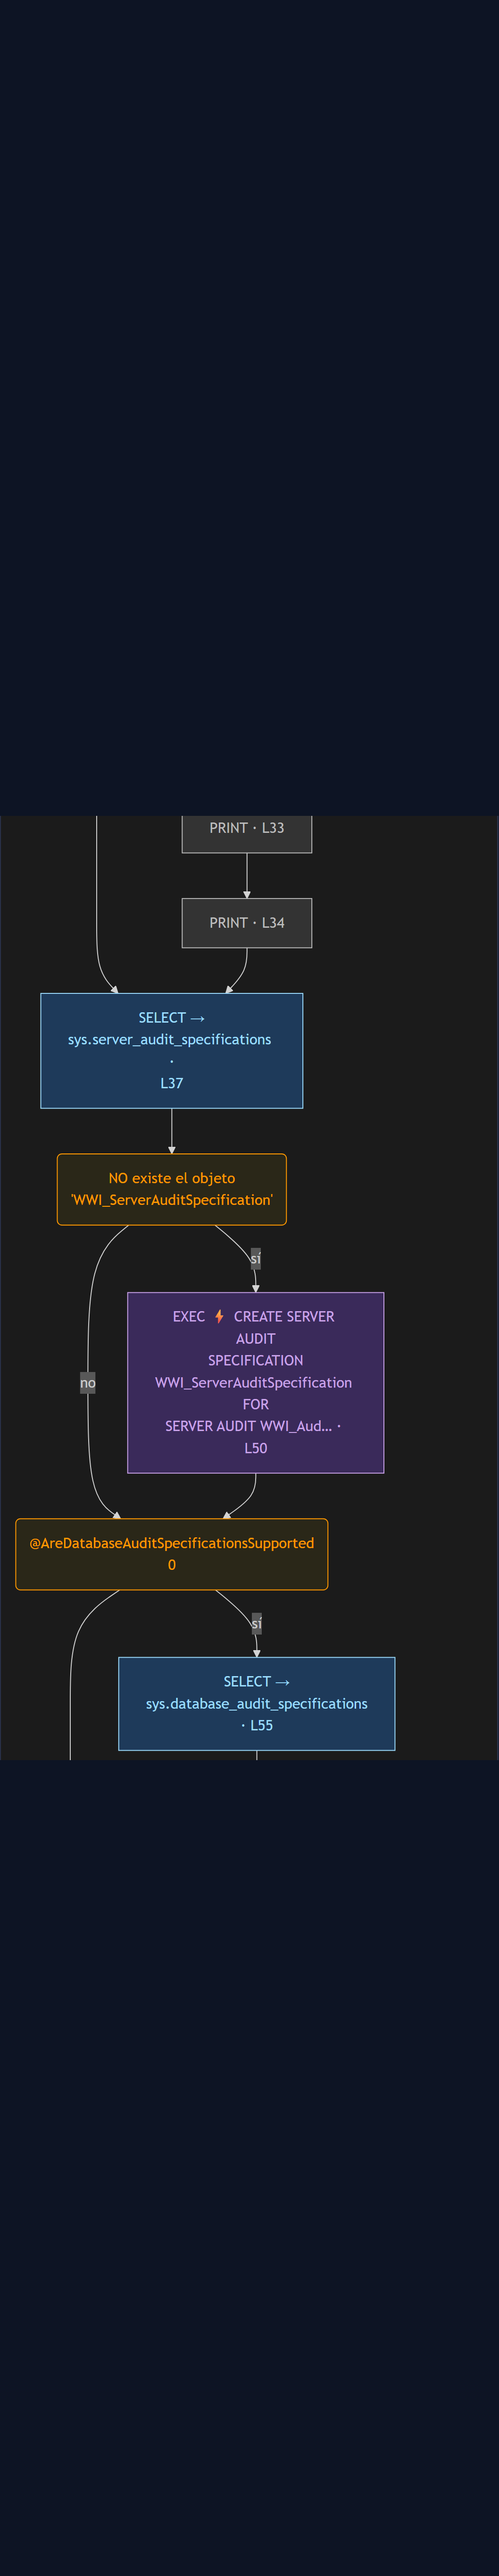
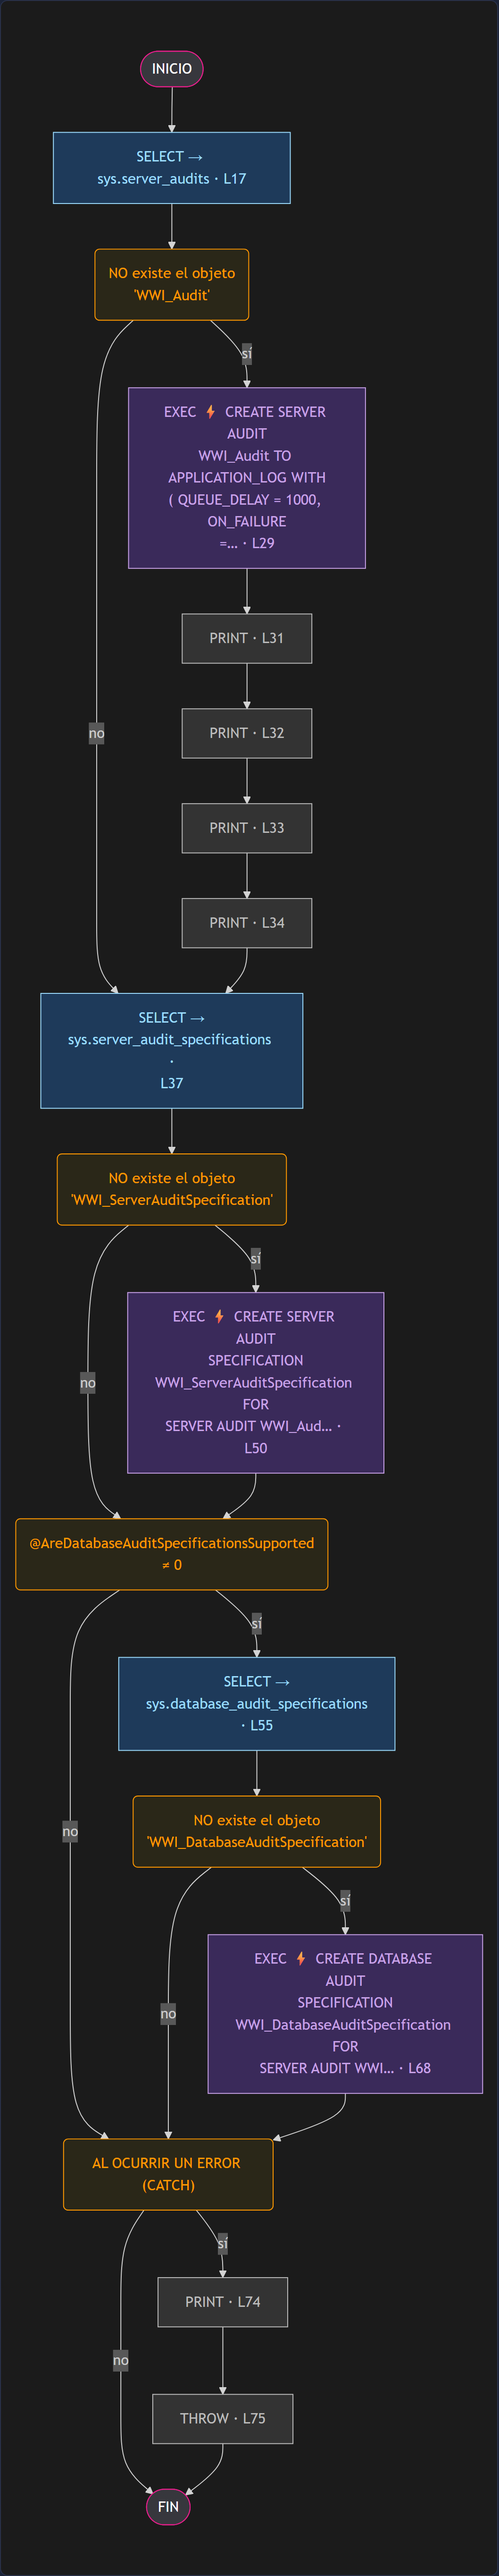
fix: capturas de diagrama en blanco y operadores de comparacion perdidos
El saneador de labels de Mermaid (mmSanitize) borraba <, >, <=, >= y <>
enteros para no romper la sintaxis del diagrama, comiendose tambien los
operadores de condiciones T-SQL reales (una condicion como "@var <> 0"
quedaba como "@var  0", sin operador). Ahora se traducen primero a su
simbolo Unicode (!=, <=, >=, <, >) antes del resto del saneado.

Ademas, el screenshot de un diagrama de flujo mas alto que el viewport
salia con huecos en blanco: Chromium solo pinta la porcion actualmente
visible de un elemento cuando se captura via elementHandle.screenshot(),
y el layout de la app scrollea un panel interno (no window/body), asi
que un window.scrollTo(0,0) no bastaba. shotDiagram ahora reinicia el
scrollTop de cada ancestro scrolleable y agranda el viewport para
contener el elemento entero antes de capturar.

README: se quita la tabla de precios vs. Purview/Octopai/Informatica
-sonaba a venta de humo comparando una herramienta de analisis estatico
con plataformas de gobierno de datos que no compiten en la misma liga-
y se deja una frase factual sobre el hueco real que llena (SQL dinamico
y reglas de negocio que el catalogo y el grep no ven).

diff --git a/dashboard/e2e/shots-diagrams.js b/dashboard/e2e/shots-diagrams.js
@@ -31,9 +31,38 @@ async function shotDiagram(page, headingText, out) {
   }, headingText);
   const el = handle.asElement();
   if (!el) { console.log('✗ no diagram for', headingText); return false; }
-  await el.scrollIntoViewIfNeeded();
-  await page.waitForTimeout(300);
+
+  // The layout scrolls internally (the content pane, not window/body/html),
+  // so `window.scrollTo` never touches the container that actually matters.
+  // Reset every scrollable ancestor's scrollTop to 0 directly.
+  const resetScroll = () => el.evaluate((node) => {
+    let e = node.parentElement;
+    while (e) {
+      if (e.scrollHeight > e.clientHeight + 2) e.scrollTop = 0;
+      e = e.parentElement;
+    }
+  });
+  await resetScroll();
+  await page.waitForTimeout(200);
+
+  // Chromium's element screenshot goes blank outside the current viewport for
+  // elements taller than it (e.g. a long flowchart with 15+ ranks): only the
+  // scrolled-into-view slice gets painted, the rest comes out empty. Grow the
+  // viewport to fully contain the element before capturing, then restore it —
+  // no scrolling/tiling needed, so the whole element gets painted. Must reset
+  // scroll again afterward: resizing a taller viewport can itself trigger the
+  // content pane to re-scroll to keep the previous focus point in view.
+  const box = await el.boundingBox();
+  const original = page.viewportSize();
+  const needsResize = box && (box.y + box.height + 50) > original.height;
+  if (needsResize) {
+    await page.setViewportSize({ width: original.width, height: Math.ceil(box.y + box.height + 50) });
+    await page.waitForTimeout(200);
+    await resetScroll();
+    await page.waitForTimeout(300);
+  }
   await el.screenshot({ path: out });
+  if (needsResize) await page.setViewportSize(original);
   console.log('✓', path.basename(out));
   return true;
 }

diff --git a/dashboard/src/components.js b/dashboard/src/components.js
@@ -142,9 +142,16 @@
   }
 
   // Mermaid: limpia caracteres que rompen el parser dentro de `"label"` (comillas,
-  // pipes, brackets/llaves/ángulos, saltos de línea).
+  // pipes, brackets/llaves/ángulos, saltos de línea). Los operadores de
+  // comparación T-SQL (`<>`, `<=`, `>=`, `<`, `>`) se traducen primero a su
+  // símbolo Unicode: si no, el strip de ángulos se los come enteros y una
+  // condición real como `@Var <> 0` queda como "@Var  0", indistinguible de un
+  // valor sin comparar.
   function mmSanitize(s) {
-    return (s || '').replace(/[\r\n]+/g, ' ').replace(/["|{}\[\]<>]/g, '').trim();
+    return (s || '')
+      .replace(/<>/g, '≠').replace(/<=/g, '≤').replace(/>=/g, '≥')
+      .replace(/</g, '˂').replace(/>/g, '˃')
+      .replace(/[\r\n]+/g, ' ').replace(/["|{}\[\]]/g, '').trim();
   }
   function mmEsc(s) { return (s || '').replace(/"/g, "'"); }
   // Envuelve el texto en varias líneas (<br>) para que las cajas no crezcan a

diff --git a/README.md b/README.md
@@ -44,9 +44,7 @@ La cadena de impacto se despliega **por niveles**, aguas arriba y aguas abajo, h
 
 Cada procedimiento se traduce a su **flujograma real** desde el AST — con sus **decisiones**, no un resumen. Aquí `Configuration_ApplyAuditing`: *¿existe ya `WWI_ServerAuditSpecification`?* → si no, lo crea con SQL dinámico (`EXEC ⚡`); *¿el servidor soporta especificaciones de auditoría?* → ramifica. Cada `IF` con sus ramas **sí/no** en lenguaje natural y la línea exacta. La lógica de negocio, con sus condiciones, legible sin abrir el `CREATE PROCEDURE`.
 
-## Comparación — qué hueco llena
-
-**vs. herramientas open source / gratuitas:**
+## Qué hueco llena
 
 | Herramienta | AST real | SQL dinámico | Lineage columna | Riesgos | Offline / agent-ready |
 | --- | :---: | :---: | :---: | :---: | :---: |
@@ -57,18 +55,7 @@ Cada procedimiento se traduce a su **flujograma real** desde el AST — con sus 
 | Apache Atlas | catálogo | ❌ | ❌ | ❌ | genérico |
 | dbt lineage | solo modelos dbt | ❌ | limitado | ❌ | ❌ |
 
-**vs. herramientas comerciales:**
-
-| Herramienta | Precio | AST T-SQL | SQL dinámico | Offline | Open source |
-| --- | :---: | :---: | :---: | :---: | :---: |
-| **Este toolkit** | **Gratis** | ✅ | ✅ | ✅ | ✅ |
-| Microsoft Purview | €€€ · Azure-only | ❌ catálogo | ❌ | ❌ | ❌ |
-| Octopai | €€€€ enterprise | ❌ | ❌ | ❌ | ❌ |
-| Informatica IDMC | €€€€€ enterprise | ❌ | ❌ | ❌ | ❌ |
-
-### El hueco que complementa
-
-Las gratuitas paran en el análisis de texto o de catálogo: **ninguna usa la gramática `ScriptDom` ni resuelve el `EXEC(@sql)` dinámico**, que es exactamente donde vive el riesgo. Las de pago sí razonan sobre metadatos, pero cuestan una fortuna, viven en cloud y **tampoco entran en el SQL dinámico ni dan lineage a columna con reglas de negocio**. Este toolkit ocupa el hueco intermedio: la profundidad de gramática de una comercial, gratis, offline y diffable — pensado para **complementar** tu SSMS, tu catálogo y tu CI, no para sustituirlos.
+El catálogo (`sys.sql_expression_dependencies`, Atlas, Purview) ve lo que está declarado en `sys.objects` y nada más: un trigger creado en runtime o una tabla que solo aparece dentro de un `EXEC(@sql)` no existen para él. Un grep o un regex (sqllineage) no distingue un `IF` real de un `IF` dentro de un string que se está construyendo. Este toolkit entiende el AST completo del procedimiento —lo que hace, no solo lo que declara— y por eso ve el SQL dinámico, las reglas de negocio en cada `WHERE` y el riesgo de seguridad en cada `@SQL` construido desde datos de tabla. Es lo que hace falta para responder con certeza "¿qué rompo?", no para sustituir tu catálogo ni tu CI: los complementa donde ellos no llegan.
 
 ### Validado contra SQL real (y contra oráculos)
 
